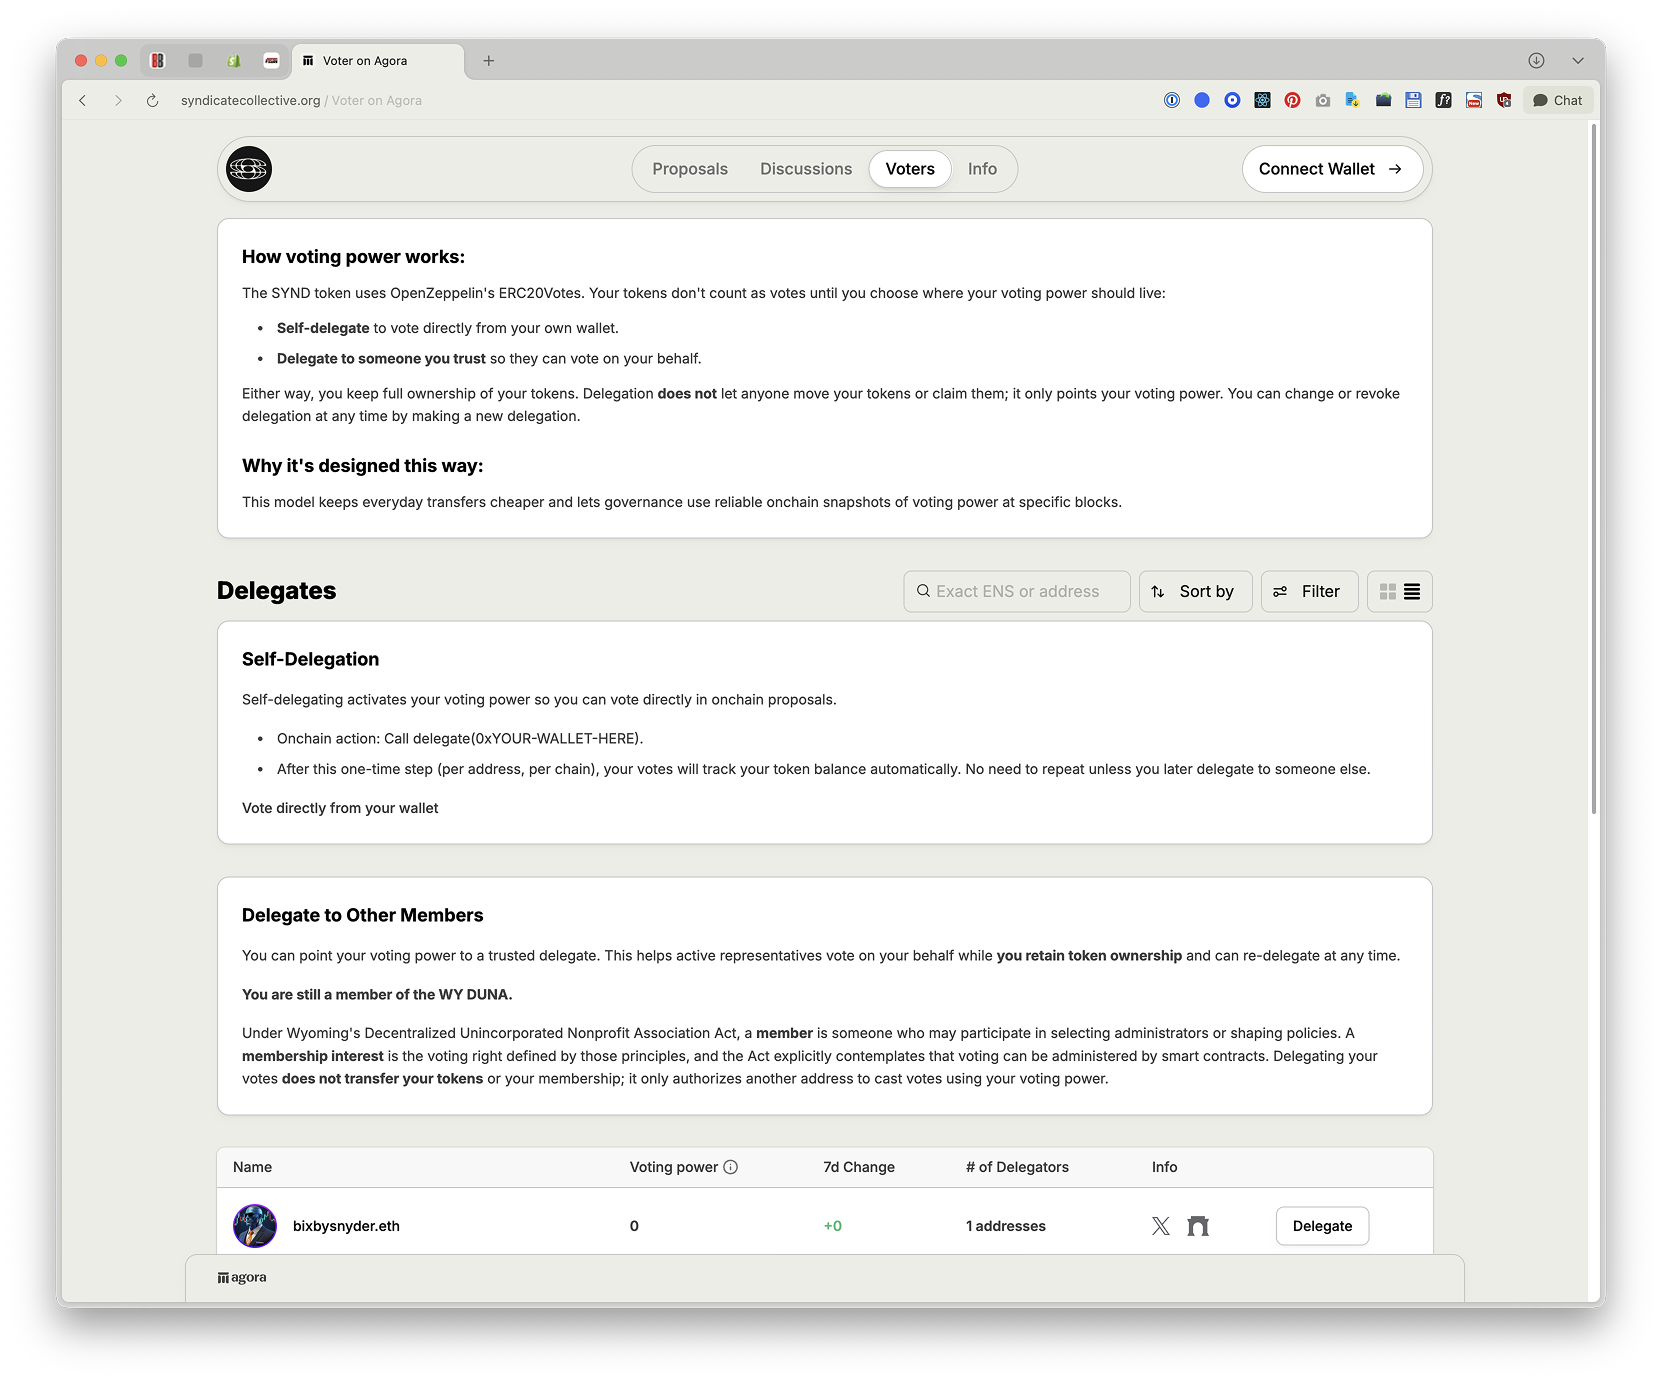
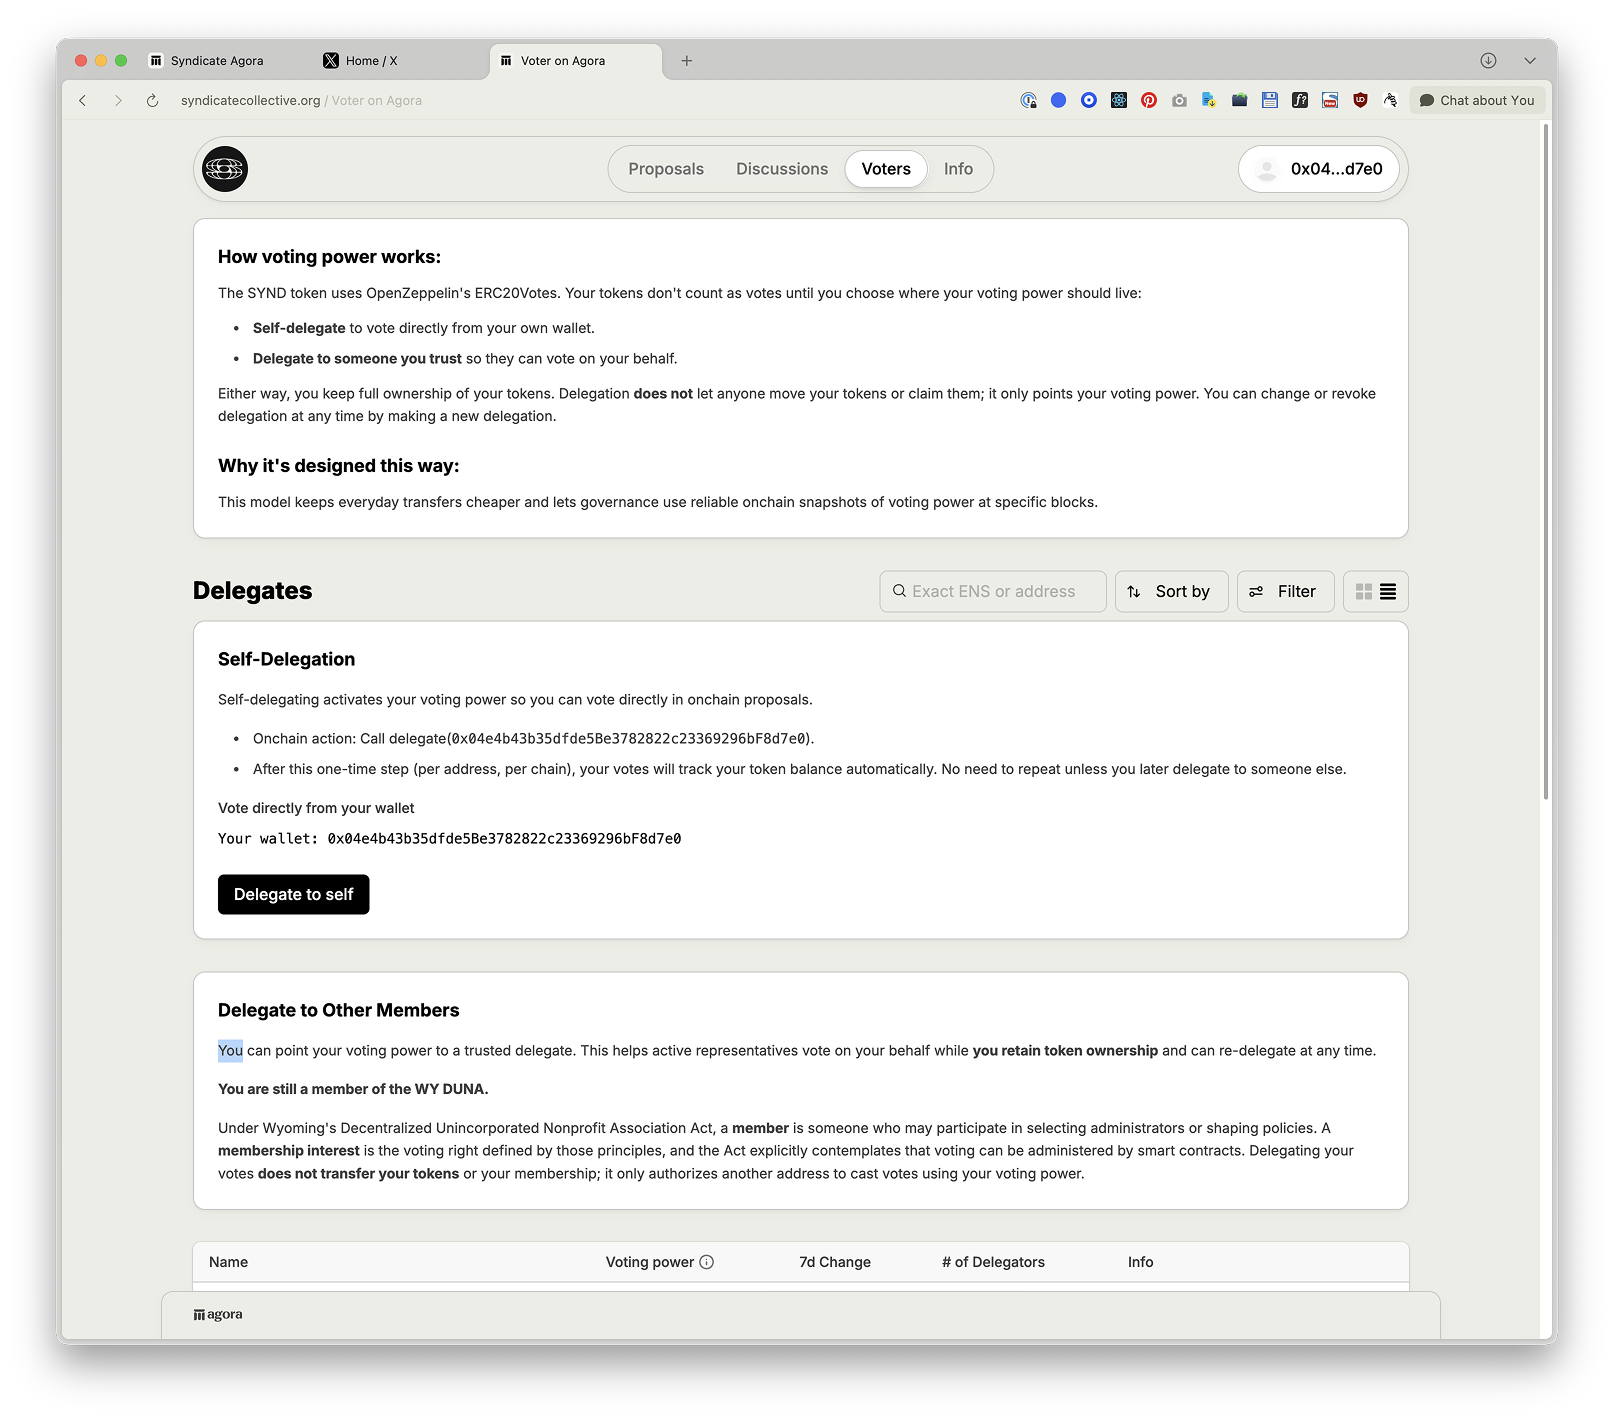
design context ok

diff --git a/.cursor/design-context/design-context.md b/.cursor/design-context/design-context.md
@@ -1,0 +1,196 @@
+# Design Context: Syndicate Network Collective Governance App
+
+## App Overview
+
+This is Agora, a governance platform for the Syndicate Network Collective (SNC), a Wyoming DUNA (Decentralized Unincorporated Nonprofit Association) that operates through token-based governance using the SYND token. The platform enables token holders to participate in collective decision-making through delegation and voting on governance proposals.
+
+## Pages in the App
+
+### 1. Proposals Page (Home)
+
+**Purpose**: Display governance proposals and explain the voting process  
+**Route**: `/` or `/proposals`  
+**Key Elements**:
+
+- Hero section with organization branding
+- "Voting process" information box (the problematic wall of text)
+- "All Proposals" list with filtering and sorting
+- Each proposal shows status, voting results, and metadata
+
+**Primary Actions**:
+
+- View proposals
+- Filter/sort proposals
+- Click into individual proposals to vote
+- Create new proposal drafts (for authorized users)
+
+### 2. Individual Proposal Page
+
+**Purpose**: View proposal details and cast votes  
+**Route**: `/proposals/[proposal_id]`  
+**Key Elements**:
+
+- Proposal description and metadata
+- Voting interface (right sidebar on desktop)
+- Vote results and participation statistics
+- Discussion thread
+
+**Primary Actions**:
+
+- Read proposal details
+- Cast vote (For/Against/Abstain)
+- Share vote
+
+### 3. Discussions Page (Forums)
+
+**Purpose**: Community forum for general discussions  
+**Route**: `/forums`  
+**Key Elements**:
+
+- List of discussion topics
+- Categories sidebar
+- Create new discussion button
+- Search and filtering
+
+**Primary Actions**:
+
+- Browse discussions
+- Create new topics
+- View and reply to threads
+- React with emojis
+- Attach documents
+
+### 4. Individual Discussion Thread Page
+
+**Purpose**: View and participate in a specific discussion  
+**Route**: `/forums/[topic_id]`  
+**Key Elements**:
+
+- Original post with content and attachments
+- Comment thread
+- Emoji reactions
+- Related proposal links (if applicable)
+
+**Primary Actions**:
+
+- Read discussion
+- Post comments/replies
+- Add emoji reactions
+- Upload attachments
+- Create temp-check proposals (for DUNA category)
+
+### 5. Voters Page (Delegates List)
+
+**Purpose**: View delegates and manage delegation  
+**Route**: `/delegates`  
+**Key Elements**:
+
+- Hero section
+- "How voting power works" information box (another problematic wall of text)
+- "Self-Delegation" box with "Delegate to self" button (third problematic section)
+- "Delegate to Other Members" information box (fourth problematic section)
+- Sortable table of delegates with voting power, 7d change, # of delegators
+
+**Primary Actions**:
+
+- Self-delegate to activate voting power
+- Delegate to other members
+- Search and sort delegates
+- View delegate profiles
+
+### 6. Individual Delegate Profile Page
+
+**Purpose**: View detailed information about a specific delegate  
+**Route**: `/delegates/[addressOrENSName]`  
+**Key Elements**:
+
+- Delegate card (left sidebar) with profile info, voting power, follower counts
+- Delegate statement
+- Voting history
+- Delegations (who delegated to them)
+- Discussion participation
+
+**Primary Actions**:
+
+- View delegate's history
+- Delegate voting power to this address
+- View their votes and participation
+
+## Core Functionality
+
+### Delegation System
+
+The SYND token uses OpenZeppelin's ERC20Votes standard. Tokens don't count as votes until holders choose where their voting power should live:
+
+1. **Self-delegation**: Vote directly from your own wallet
+2. **Delegate to others**: Point voting power to a trusted representative
+
+Key points:
+
+- Delegation does NOT transfer token ownership
+- Delegation only points voting power
+- Can change or revoke delegation anytime
+- Requires onchain transaction to activate
+
+### Voting Process
+
+Complex multi-stage process:
+
+1. **Temp-Check Phase**: 7-day period where members indicate support. Needs 5% of tokens to proceed.
+2. **Governance Proposal Phase**: If temp-check passes, 7-day voting period where members vote for/against
+   - **Passes** if majority votes affirm AND 10% of tokens participate
+   - **Fails** if majority denies OR less than 10% participation
+3. **Rules Committee Review**: 3-day period where Rules Committee can revert if proposal is legally problematic, unfeasible, or malicious
+4. **Enactment**: If not reverted, proposal is enacted
+5. **Funding Recipients**: Must complete tax reporting within 15 days
+
+### Forum System
+
+- Multi-category discussion forum
+- Supports rich text editing (Duna editor)
+- File attachments stored on IPFS
+- Emoji reactions and upvoting
+- Special DUNA category for quarterly reports
+- Can create temp-check proposals from discussions
+
+### User Authentication
+
+- Web3 wallet connection (using wagmi/RainbowKit)
+- Signature verification for actions
+- Token-gated features based on holdings/delegation
+
+## Technical Architecture
+
+- **Framework**: Next.js (App Router)
+- **Styling**: Tailwind CSS
+- **UI Components**: shadcn/ui components library
+- **Wallet**: RainbowKit + wagmi
+- **Database**: PostgreSQL (Prisma ORM)
+- **Smart Contracts**: ERC20Votes governance token
+- **Multi-tenancy**: Supports multiple DAOs/organizations through tenant configuration
+
+## Navigation
+
+Header nav items:
+
+- Proposals
+- Discussions
+- Voters (Delegates)
+- Info (static pages about the organization)
+- Connect Wallet button (right side)
+
+## Current User Experience Issues
+
+The app currently has large instructional text boxes on key pages (Proposals and Voters pages) that were hastily added to support new users. These boxes:
+
+- Take up significant screen real estate
+- Push actual functionality below the fold
+- Are only relevant for first-time users
+- Feel obtrusive and in-your-face
+- Make the interface look cluttered and unprofessional
+
+On the Voters page specifically:
+
+- The "Self-Delegation" section contains the "Delegate to self" button embedded within explanatory text
+- This button is not integrated into the actual delegates table UI
+- It feels disconnected from the primary interface
